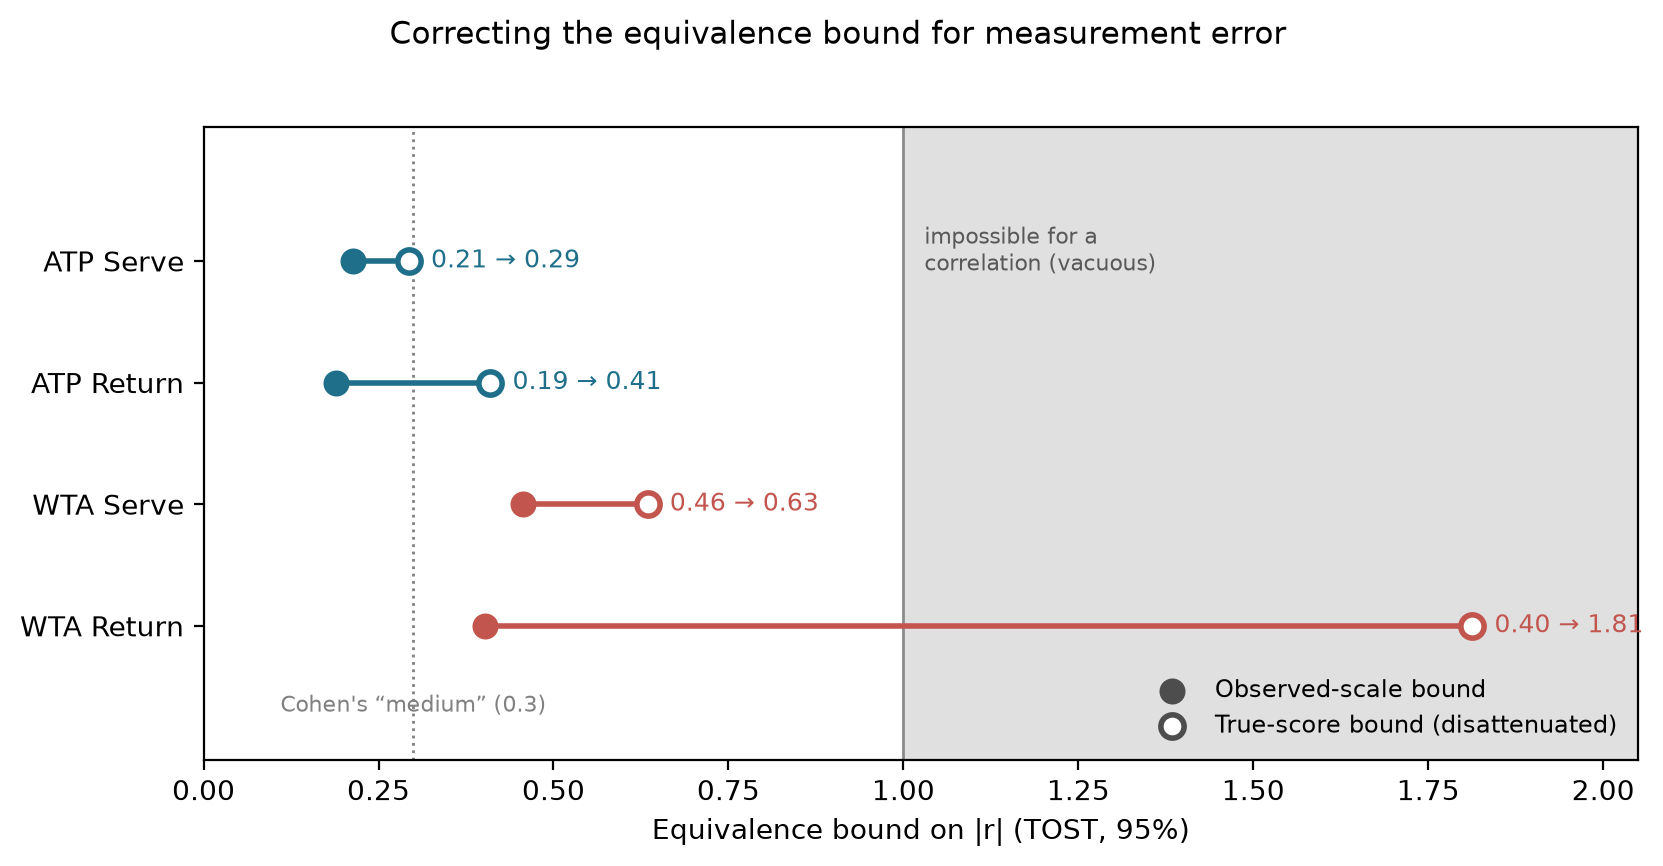
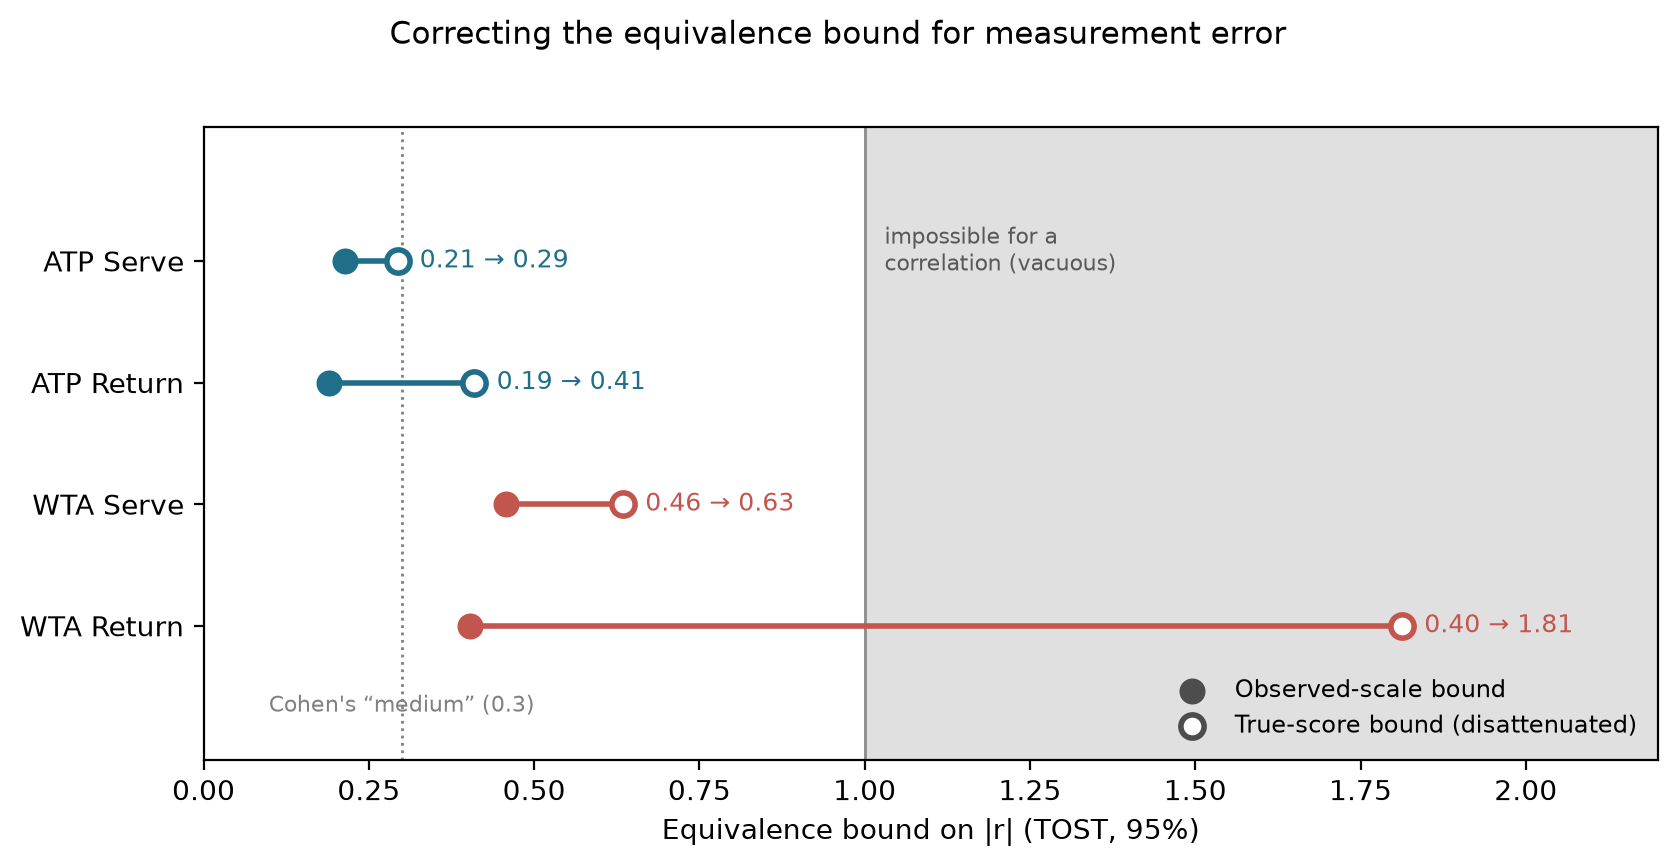
Widen Figure 2 x-axis so the WTA return label clears the frame

diff --git a/src/figures/make_disattenuation_figure.py b/src/figures/make_disattenuation_figure.py
@@ -84,7 +84,7 @@ def main():
 
     # A correlation can't exceed 1 in magnitude -- a bound landing past
     # that point isn't weak evidence, it's no evidence (vacuous).
-    ax.axvspan(1.0, 2.05, color='0.88', zorder=0)
+    ax.axvspan(1.0, 2.2, color='0.88', zorder=0)
     ax.axvline(1.0, color='0.55', linewidth=1, zorder=0)
     ax.text(1.03, n - 0.7, 'impossible for a\ncorrelation (vacuous)',
             fontsize=8, color='0.35', va='top')
@@ -95,7 +95,7 @@ def main():
 
     ax.set_yticks(ys)
     ax.set_yticklabels([f'{LABELS[t]} {r.capitalize()}' for t, r in ROWS])
-    ax.set_xlim(0, 2.05)
+    ax.set_xlim(0, 2.2)
     ax.set_ylim(-1.1, n - 1 + 1.1)
     ax.set_xlabel('Equivalence bound on |r| (TOST, 95%)')
 
